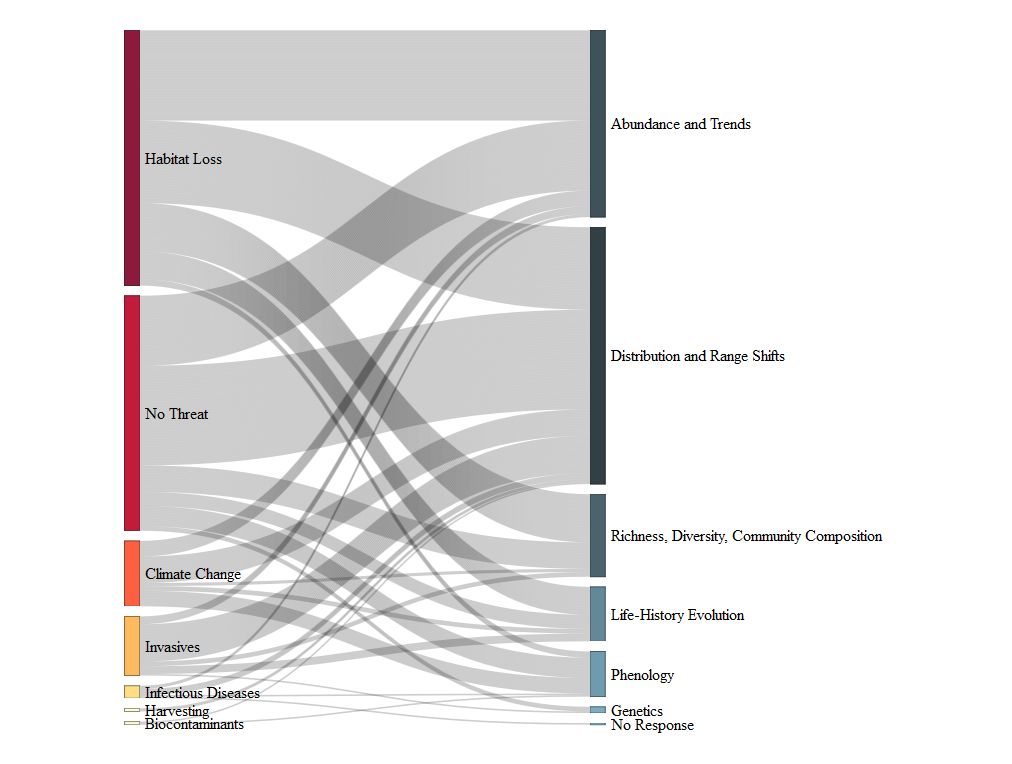
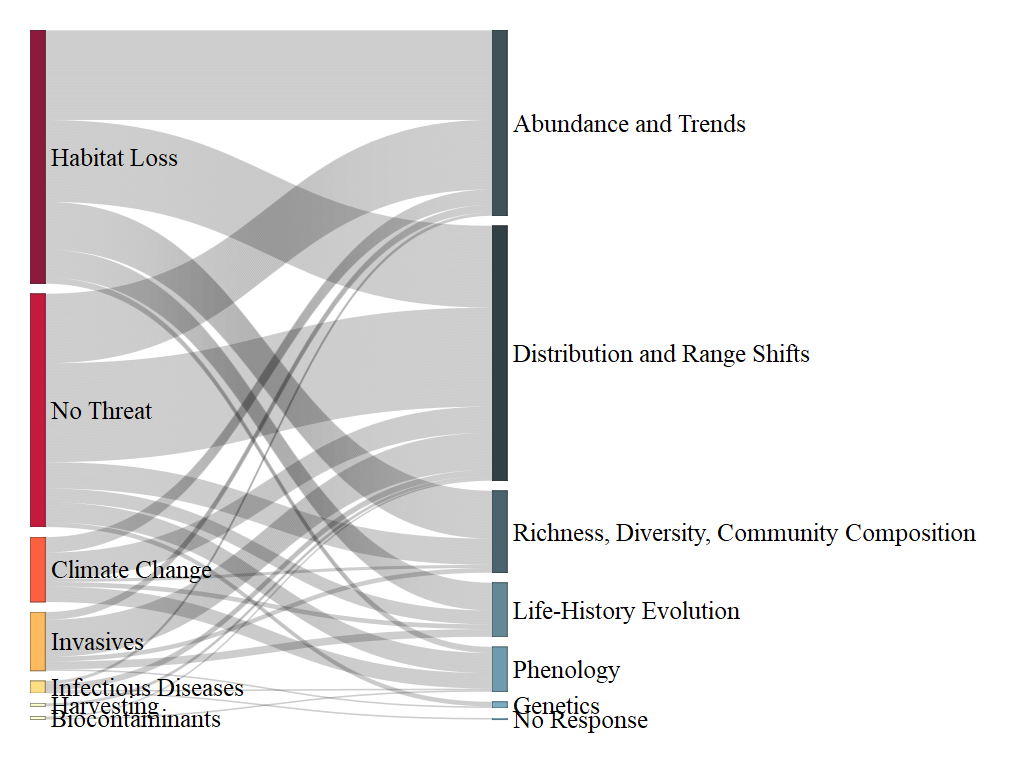
figure edits

diff --git a/CitSci_bio_monitoring1/temp.html b/CitSci_bio_monitoring1/temp.html
@@ -1576,11 +1576,11 @@ return function(){for(var n=0,e=0;e<t;++e)n+=Math.random();return n}},um=functio
 </head>
 <body style="background-color: white;">
 <div id="htmlwidget_container">
-<div id="htmlwidget-bf6cfb8ad63127b4401f" class="sankeyNetwork html-widget" style="width:960px;height:500px;">
+<div id="htmlwidget-c25c725b6669b0750b5b" class="sankeyNetwork html-widget" style="width:960px;height:500px;">
 
 </div>
 </div>
-<script type="application/json" data-for="htmlwidget-bf6cfb8ad63127b4401f">{"x":{"links":{"source":[0,0,1,2,0,2,0,0,2,2,0,0,0,3,0,2,2,2,0,2,2,0,0,2,2,2,0,2,2,3,2,1,2,2,0,0,3,0,0,0,2,0,2,2,2,2,2,1,3,0,1,0,0,4,0,0,0,0,0,2,0,2,2,2,0,0,0,0,2,1,0,0,0,2,2,0,0,1,0,0,0,0,0,0,2,2,2,4,4,2,2,2,2,2,2,0,0,0,0,3,3,2,2,1,1,1,1,0,0,0,0,0,0,1,1,0,0,1,1,0,0,2,2,2,0,0,2,2,0,0,0,0,0,2,2,2,2,0,0,0,0,0,0,0,0,0,0,0,0,2,2,2,0,2,2,2,2,2,4,3,2,2,3,3,2,0,2,2,3,0,2,3,2,2,0,2,3,3,3,0,2,2,0,3,2,1,0,0,0,2,0,2,2,1,0,2,3,2,2,0,2,0,3,2,2,2,5,2,3,3,0,3,3,2,4,2,3,1,0,1,0,2,2,0,2,2,1,2,4,2,0,2,2,3,2,2,3,0,4,2,0,0,2,2,0,0,2,2,0,0,2,0,2,1,3,2,0,0,2,1,1,0,2,0,0,1,0,2,3,6,0,1,2,2,0,0,0,6,0,3,0,1,0,2,2,3,3,0,0,2,2,3,3,2,2,2,2,2,2,1,1,2,2,2,0,0,2,2,0,0,2,2,0,0,1,1,0,0,2,2,2,2,3,0,0,0,0,1,3,0,0,3,0,2,0,2,2,0,2,0,0,2,3,1,0,1,0,0,0,2,2,1,1,1,4,2,2,2,2,2,2,1,1,5,0,1,1,0,1,0,1,1,2,2,0,0,0,0,2,0,0,2,3,0,0,0,2,0,0,2,0,2,0,2,2,0,2,0,0,0,0,0,3,0,2,3,0],"target":[7,8,7,7,7,7,7,8,7,8,7,7,7,7,7,7,7,7,7,7,7,7,7,7,7,7,7,7,7,7,7,7,7,7,7,7,7,7,7,7,7,7,7,7,7,7,7,7,7,7,7,7,7,7,7,7,7,7,7,7,7,7,7,7,7,7,7,7,7,7,7,7,7,7,7,7,7,7,7,7,7,7,7,7,7,7,7,7,9,7,8,7,8,7,8,7,8,7,8,7,8,7,8,7,8,7,8,7,8,7,8,7,8,7,8,7,8,7,8,7,8,7,8,10,7,11,7,11,7,11,7,11,12,7,10,7,10,7,10,7,12,7,12,7,12,7,12,7,12,7,12,7,7,7,7,7,10,8,8,8,8,8,8,8,8,8,8,8,8,8,8,8,8,8,8,8,8,8,8,8,8,8,8,8,8,8,8,8,8,8,8,8,8,8,8,8,8,8,8,8,8,8,8,8,8,8,8,8,8,8,8,8,8,8,8,8,8,8,8,8,8,8,8,8,8,8,8,8,8,8,8,8,8,8,8,8,8,8,8,8,8,8,8,8,8,8,8,8,8,8,8,8,8,8,8,8,8,8,8,8,8,8,8,8,8,8,8,8,8,8,8,8,8,8,8,8,8,8,8,8,8,8,8,8,8,8,13,8,11,8,11,8,11,8,11,8,10,8,10,8,10,8,10,12,8,12,8,12,8,12,8,12,8,12,8,12,8,8,13,13,13,12,11,11,11,11,11,11,11,11,11,11,11,11,11,11,11,11,11,11,11,11,11,11,11,11,11,11,12,11,12,10,10,10,10,10,10,10,10,10,10,10,10,10,10,10,10,10,10,10,10,12,12,12,12,12,12,12,12,12,12,12,12,12,12,12,12,12,12,12,12,12,12,12,12,12,12,12,12,12,12,12,12,12,12,12,12],"value":[1,1,1,1,1,1,1,1,1,1,1,1,1,1,1,1,1,1,1,1,1,1,1,1,1,1,1,1,1,1,1,1,1,1,1,1,1,1,1,1,1,1,1,1,1,1,1,1,1,1,1,1,1,1,1,1,1,1,1,1,1,1,1,1,1,1,1,1,1,1,1,1,1,1,1,1,1,1,1,1,1,1,1,1,1,1,1,1,1,1,1,1,1,1,1,1,1,1,1,1,1,1,1,1,1,1,1,1,1,1,1,1,1,1,1,1,1,1,1,1,1,1,1,1,1,1,1,1,1,1,1,1,1,1,1,1,1,1,1,1,1,1,1,1,1,1,1,1,1,1,1,1,1,1,1,1,1,1,1,1,1,1,1,1,1,1,1,1,1,1,1,1,1,1,1,1,1,1,1,1,1,1,1,1,1,1,1,1,1,1,1,1,1,1,1,1,1,1,1,1,1,1,1,1,1,1,1,1,1,1,1,1,1,1,1,1,1,1,1,1,1,1,1,1,1,1,1,1,1,1,1,1,1,1,1,1,1,1,1,1,1,1,1,1,1,1,1,1,1,1,1,1,1,1,1,1,1,1,1,1,1,1,1,1,1,1,1,1,1,1,1,1,1,1,1,1,1,1,1,1,1,1,1,1,1,1,1,1,1,1,1,1,1,1,1,1,1,1,1,1,1,1,1,1,1,1,1,1,1,1,1,1,1,1,1,1,1,1,1,1,1,1,1,1,1,1,1,1,1,1,1,1,1,1,1,1,1,1,1,1,1,1,1,1,1,1,1,1,1,1,1,1,1,1,1,1,1,1,1,1,1,1,1,1,1,1,1,1,1,1,1,1,1,1,1,1,1,1,1,1,1,1,1,1,1,1,1,1,1,1,1,1,1,1,1,1,1,1,1,1,1,1,1,1,1,1,1]},"nodes":{"name":["Habitat Loss","Climate Change","No Threat","Invasives","Infectious Diseases","Biocontaminants","Harvesting","Abundance and Trends","Distribution and Range Shifts","No Response","Phenology","Life-History Evolution","Richness, Diversity, Community Composition","Genetics"],"group":["Habitat-Loss","Climate-Change","No-Threat","Invasives","Infectious-Diseases","Biocontaminants","Harvesting","Abundance-And-Trends","Distribution-And-Range-Shifts","No-Response","Phenology","Life-History-Evolution","Richness,-Diversity,-Community-Composition","Genetics"],"target":[true,true,true,true,true,true,true,false,false,false,false,false,false,false]},"options":{"NodeID":"name","NodeGroup":"group","LinkGroup":null,"colourScale":"d3.scaleOrdinal()\n            .domain([\"Habitat-Loss\",\"Climate-Change\",\"No-Threat\",\"Invasives\",\"Infectious-Diseases\",\"Biocontaminants\",\"Harvesting\",\"Abundance-And-Trends\",\"Distribution-And-Range-Shifts\",\"No-Response\",\"Phenology\",\"Life-History-Evolution\",\"Richness,-Diversity,-Community-Composition\",\"Genetics\"])\n           .range([\"#800026\",\"#fc4e2a\",\"#bd0026\",\"#feb24c\",\"#fed976\",\"#ffffcc\",\"#ffffcc\",\"#293e47\", \"#1b292f\",\"#87ceeb\",\"#5f90a5\",\"#517c8d\",\"#36525E\",\"#6ca5bc\"]);","fontSize":16,"fontFamily":null,"nodeWidth":15,"nodePadding":10,"units":"","margin":{"top":null,"right":null,"bottom":null,"left":null},"iterations":32,"sinksRight":false}},"evals":[],"jsHooks":{"render":[{"code":"\n  function(el, x) {\n    d3.selectAll(\".node text\")\n    .filter(d => d.target)\n    .attr(\"text-anchor\", \"end\")\n    .attr(\"x\", -6);\n  }\n  ","data":null}]}}</script>
-<script type="application/htmlwidget-sizing" data-for="htmlwidget-bf6cfb8ad63127b4401f">{"viewer":{"width":450,"height":350,"padding":10,"fill":true},"browser":{"width":960,"height":500,"padding":10,"fill":true}}</script>
+<script type="application/json" data-for="htmlwidget-c25c725b6669b0750b5b">{"x":{"links":{"source":[0,0,1,2,0,2,0,0,2,2,0,0,0,3,0,2,2,2,0,2,2,0,0,2,2,2,0,2,2,3,2,1,2,2,0,0,3,0,0,0,2,0,2,2,2,2,2,1,3,0,1,0,0,4,0,0,0,0,0,2,0,2,2,2,0,0,0,0,2,1,0,0,0,2,2,0,0,1,0,0,0,0,0,0,2,2,2,4,4,2,2,2,2,2,2,0,0,0,0,3,3,2,2,1,1,1,1,0,0,0,0,0,0,1,1,0,0,1,1,0,0,2,2,2,0,0,2,2,0,0,0,0,0,2,2,2,2,0,0,0,0,0,0,0,0,0,0,0,0,2,2,2,0,2,2,2,2,2,4,3,2,2,3,3,2,0,2,2,3,0,2,3,2,2,0,2,3,3,3,0,2,2,0,3,2,1,0,0,0,2,0,2,2,1,0,2,3,2,2,0,2,0,3,2,2,2,5,2,3,3,0,3,3,2,4,2,3,1,0,1,0,2,2,0,2,2,1,2,4,2,0,2,2,3,2,2,3,0,4,2,0,0,2,2,0,0,2,2,0,0,2,0,2,1,3,2,0,0,2,1,1,0,2,0,0,1,0,2,3,6,0,1,2,2,0,0,0,6,0,3,0,1,0,2,2,3,3,0,0,2,2,3,3,2,2,2,2,2,2,1,1,2,2,2,0,0,2,2,0,0,2,2,0,0,1,1,0,0,2,2,2,2,3,0,0,0,0,1,3,0,0,3,0,2,0,2,2,0,2,0,0,2,3,1,0,1,0,0,0,2,2,1,1,1,4,2,2,2,2,2,2,1,1,5,0,1,1,0,1,0,1,1,2,2,0,0,0,0,2,0,0,2,3,0,0,0,2,0,0,2,0,2,0,2,2,0,2,0,0,0,0,0,3,0,2,3,0],"target":[7,8,7,7,7,7,7,8,7,8,7,7,7,7,7,7,7,7,7,7,7,7,7,7,7,7,7,7,7,7,7,7,7,7,7,7,7,7,7,7,7,7,7,7,7,7,7,7,7,7,7,7,7,7,7,7,7,7,7,7,7,7,7,7,7,7,7,7,7,7,7,7,7,7,7,7,7,7,7,7,7,7,7,7,7,7,7,7,9,7,8,7,8,7,8,7,8,7,8,7,8,7,8,7,8,7,8,7,8,7,8,7,8,7,8,7,8,7,8,7,8,7,8,10,7,11,7,11,7,11,7,11,12,7,10,7,10,7,10,7,12,7,12,7,12,7,12,7,12,7,12,7,7,7,7,7,10,8,8,8,8,8,8,8,8,8,8,8,8,8,8,8,8,8,8,8,8,8,8,8,8,8,8,8,8,8,8,8,8,8,8,8,8,8,8,8,8,8,8,8,8,8,8,8,8,8,8,8,8,8,8,8,8,8,8,8,8,8,8,8,8,8,8,8,8,8,8,8,8,8,8,8,8,8,8,8,8,8,8,8,8,8,8,8,8,8,8,8,8,8,8,8,8,8,8,8,8,8,8,8,8,8,8,8,8,8,8,8,8,8,8,8,8,8,8,8,8,8,8,8,8,8,8,8,8,8,13,8,11,8,11,8,11,8,11,8,10,8,10,8,10,8,10,12,8,12,8,12,8,12,8,12,8,12,8,12,8,8,13,13,13,12,11,11,11,11,11,11,11,11,11,11,11,11,11,11,11,11,11,11,11,11,11,11,11,11,11,11,12,11,12,10,10,10,10,10,10,10,10,10,10,10,10,10,10,10,10,10,10,10,10,12,12,12,12,12,12,12,12,12,12,12,12,12,12,12,12,12,12,12,12,12,12,12,12,12,12,12,12,12,12,12,12,12,12,12,12],"value":[1,1,1,1,1,1,1,1,1,1,1,1,1,1,1,1,1,1,1,1,1,1,1,1,1,1,1,1,1,1,1,1,1,1,1,1,1,1,1,1,1,1,1,1,1,1,1,1,1,1,1,1,1,1,1,1,1,1,1,1,1,1,1,1,1,1,1,1,1,1,1,1,1,1,1,1,1,1,1,1,1,1,1,1,1,1,1,1,1,1,1,1,1,1,1,1,1,1,1,1,1,1,1,1,1,1,1,1,1,1,1,1,1,1,1,1,1,1,1,1,1,1,1,1,1,1,1,1,1,1,1,1,1,1,1,1,1,1,1,1,1,1,1,1,1,1,1,1,1,1,1,1,1,1,1,1,1,1,1,1,1,1,1,1,1,1,1,1,1,1,1,1,1,1,1,1,1,1,1,1,1,1,1,1,1,1,1,1,1,1,1,1,1,1,1,1,1,1,1,1,1,1,1,1,1,1,1,1,1,1,1,1,1,1,1,1,1,1,1,1,1,1,1,1,1,1,1,1,1,1,1,1,1,1,1,1,1,1,1,1,1,1,1,1,1,1,1,1,1,1,1,1,1,1,1,1,1,1,1,1,1,1,1,1,1,1,1,1,1,1,1,1,1,1,1,1,1,1,1,1,1,1,1,1,1,1,1,1,1,1,1,1,1,1,1,1,1,1,1,1,1,1,1,1,1,1,1,1,1,1,1,1,1,1,1,1,1,1,1,1,1,1,1,1,1,1,1,1,1,1,1,1,1,1,1,1,1,1,1,1,1,1,1,1,1,1,1,1,1,1,1,1,1,1,1,1,1,1,1,1,1,1,1,1,1,1,1,1,1,1,1,1,1,1,1,1,1,1,1,1,1,1,1,1,1,1,1,1,1,1,1,1,1,1,1,1,1,1,1,1,1,1,1,1,1,1,1]},"nodes":{"name":["Habitat Loss","Climate Change","No Threat","Invasives","Infectious Diseases","Biocontaminants","Harvesting","Abundance and Trends","Distribution and Range Shifts","No Response","Phenology","Life-History Evolution","Richness, Diversity, Community Composition","Genetics"],"group":["Habitat-Loss","Climate-Change","No-Threat","Invasives","Infectious-Diseases","Biocontaminants","Harvesting","Abundance-And-Trends","Distribution-And-Range-Shifts","No-Response","Phenology","Life-History-Evolution","Richness,-Diversity,-Community-Composition","Genetics"]},"options":{"NodeID":"name","NodeGroup":"group","LinkGroup":null,"colourScale":"d3.scaleOrdinal()\n            .domain([\"Habitat-Loss\",\"Climate-Change\",\"No-Threat\",\"Invasives\",\"Infectious-Diseases\",\"Biocontaminants\",\"Harvesting\",\"Abundance-And-Trends\",\"Distribution-And-Range-Shifts\",\"No-Response\",\"Phenology\",\"Life-History-Evolution\",\"Richness,-Diversity,-Community-Composition\",\"Genetics\"])\n           .range([\"#800026\",\"#fc4e2a\",\"#bd0026\",\"#feb24c\",\"#fed976\",\"#ffffcc\",\"#ffffcc\",\"#293e47\", \"#1b292f\",\"#87ceeb\",\"#5f90a5\",\"#517c8d\",\"#36525E\",\"#6ca5bc\"]);","fontSize":22,"fontFamily":null,"nodeWidth":15,"nodePadding":10,"units":"","margin":{"top":null,"right":null,"bottom":null,"left":null},"iterations":32,"sinksRight":false}},"evals":[],"jsHooks":{"render":[{"code":"\n  function(el, x) {\n    d3.selectAll(\".node text\")\n    .filter(d => d.target)\n    .attr(\"text-anchor\", \"end\")\n    .attr(\"x\", -6);\n  }\n  ","data":null}]}}</script>
+<script type="application/htmlwidget-sizing" data-for="htmlwidget-c25c725b6669b0750b5b">{"viewer":{"width":450,"height":350,"padding":10,"fill":true},"browser":{"width":960,"height":500,"padding":10,"fill":true}}</script>
 </body>
 </html>
